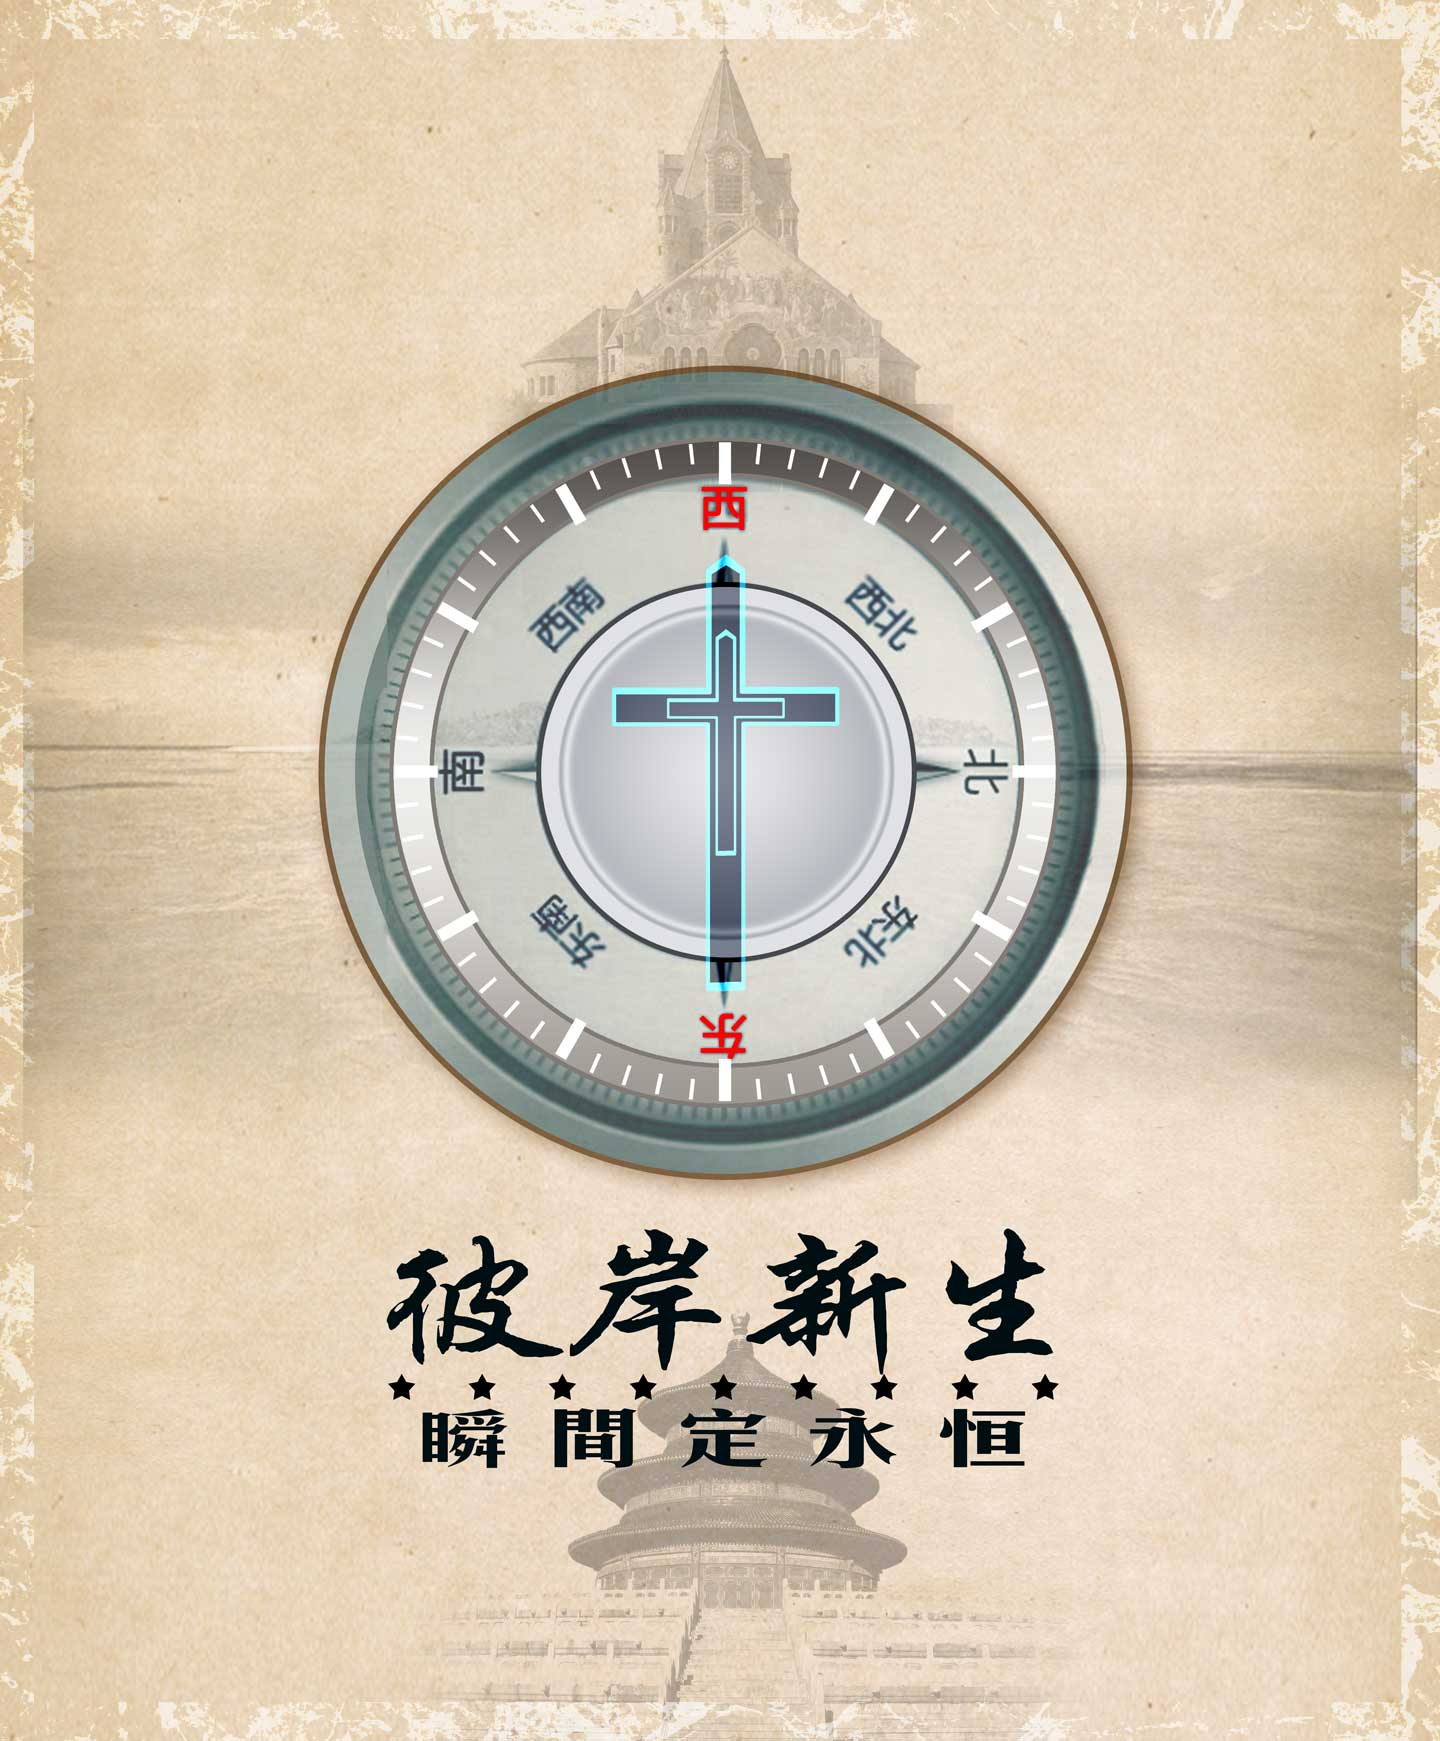
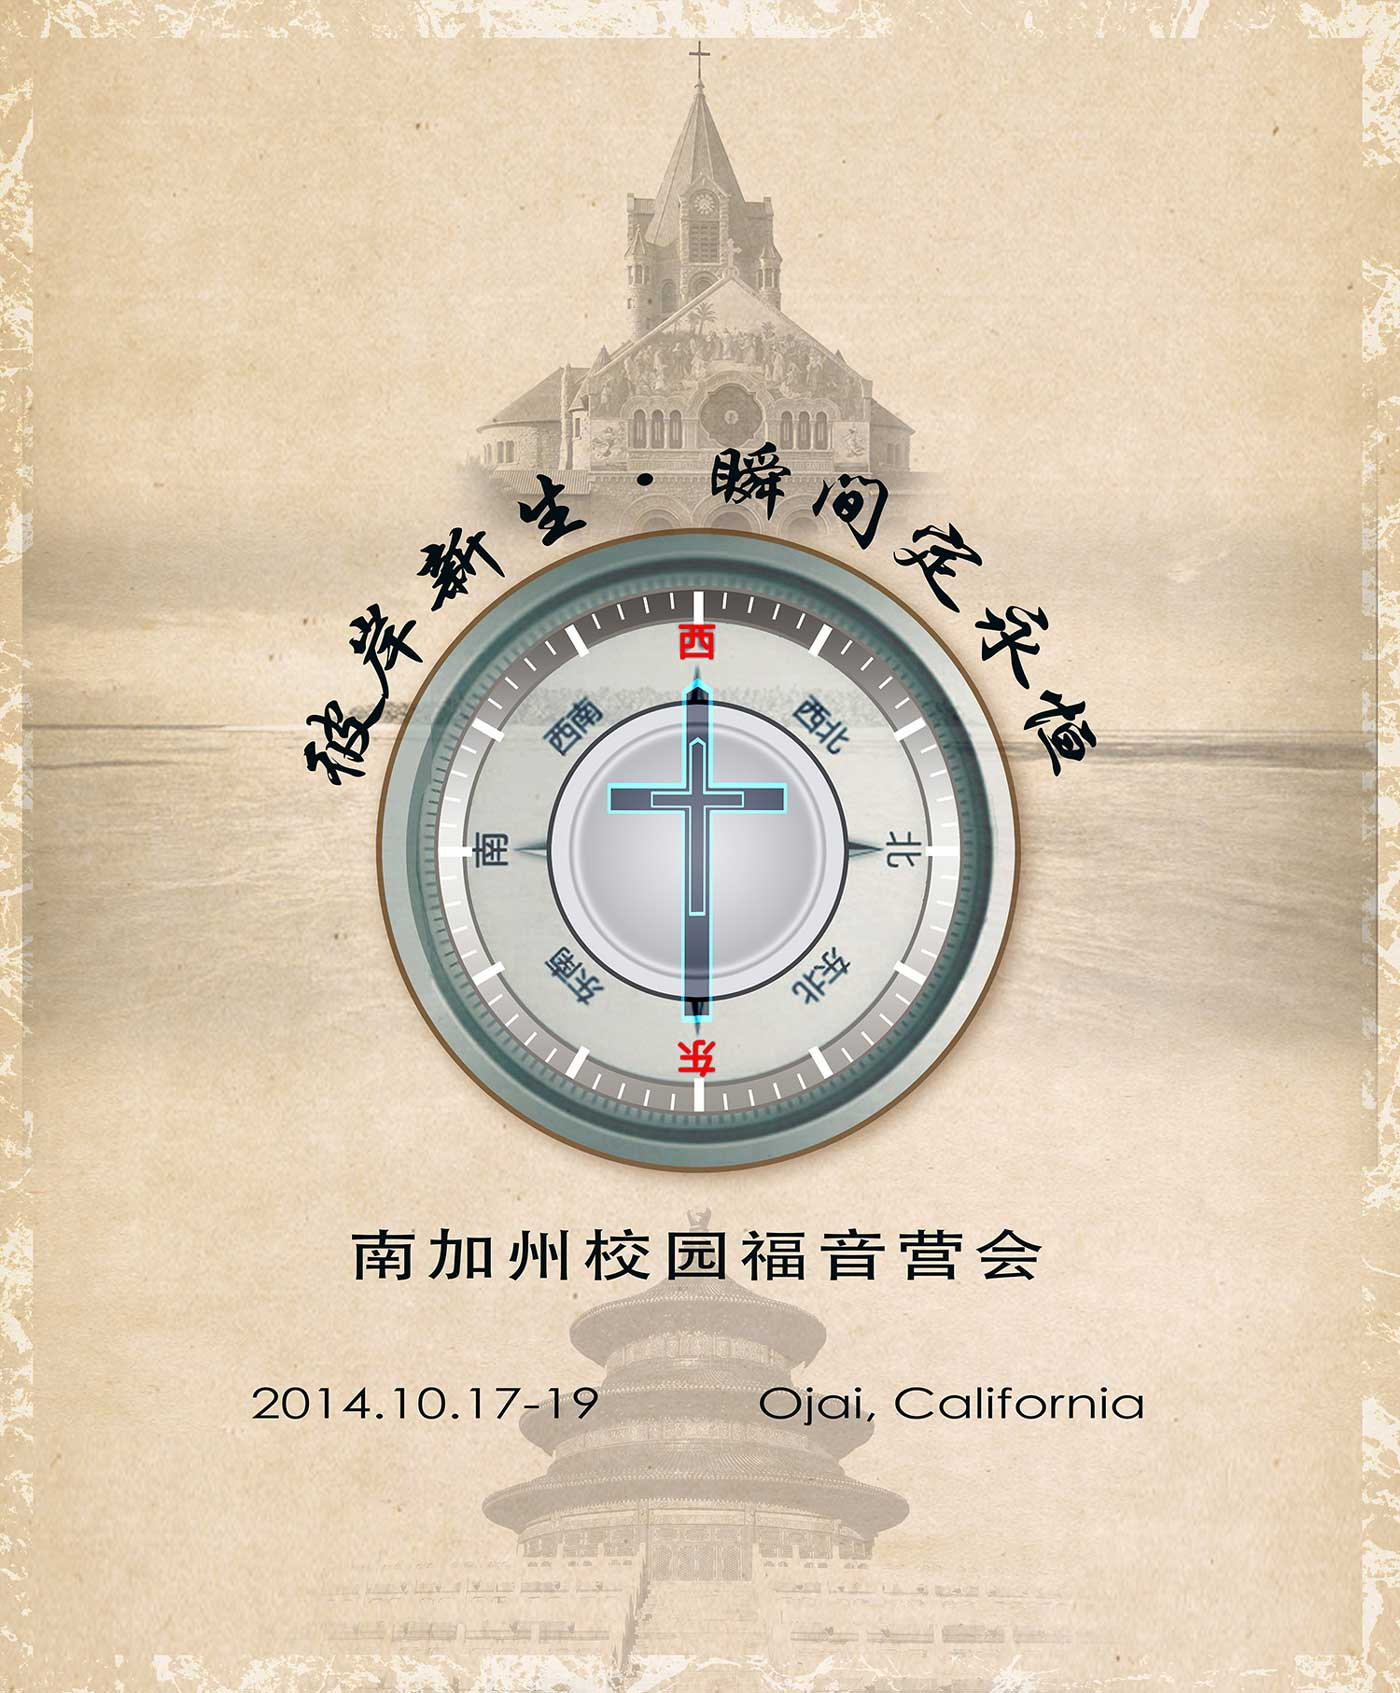
Schedule and change to <img>

Changed region(s): [[0.215, 0.0307, 0.7986, 1.0], [0.1843, 0.7986, 0.215, 0.86], [0.5529, 0.9829, 0.5836, 1.0]]

diff --git a/index.html b/index.html
@@ -12,84 +12,159 @@
 </head>
 <body>
 
-    <div class="container">
-      <div class="header">
-        <ul class="nav nav-pills pull-right">
-<!--           <li class="active"><a href="#">首页</a></li>
-          <li><a href="schedule.html">日程</a></li>
-          <li><a href="speakers.html">讲员</a></li> -->
-          <li><a href="#reg">现在报名 $120</a></li>
-        </ul>
-        <h3 class="text-muted">第二届南加州校园福音营会</h3>
-      </div>
+	<div class="container">
+		<div class="header">
+			<ul class="nav nav-pills pull-right">
+				<li><a href="#reg">现在报名 $120</a></li>
+			</ul>
+			<h3 class="text-muted">第二届南加州校园福音营会</h3>
+		</div>
 
-      <div class="jumbotron poster"></div>
+		<img src="img/poster.jpg" class="img" alt="
+		彼岸新生：瞬间定永恒
+		2014 年 10 月 17 - 19 日
 
-      <div class="row marketing">
-        <div class="col-lg-12">
-			
-			<h1>彼岸新生：瞬间定永恒</h1>
-			<p class="lead">2014 年 10 月 17 - 19 日</p>
-			<p class="lead">
-				Camp Ramah in California <br>
-				Max & Pauline Zimmer Conference Center <br>
-				385 Fairview Rd, Ojai, CA 93023
-			</p>
-			<p><a class="btn btn-lg btn-primary" href="#reg" role="button">现在报名 $120</a></p>
+		Camp Ramah in California 
+		Max & Pauline Zimmer Conference Center 
+		385 Fairview Rd, Ojai, CA 93023">
 
-			<h3><span class="glyphicon glyphicon-tree-conifer"></span> 营地—如画般的著名艺术小城Ojai</h3>
-			<p>
-				<a href="http://www.ramah.org/" target="_blank">
-					http://www.ramah.org/ <span class="glyphicon glyphicon-arrow-right"></span>
-				</a>
-			</p>
-			<div class="jumbotron campus01"></div>
-			<div class="jumbotron campus02"></div>
-			
-			<h3><span class="glyphicon glyphicon-th-list"></span> 著名讲员们的讲题</h3>
-			
-			<h4>大会主讲</h4>	
-			<p>Charles Lee 教授：新生命（ 1 & 2 ）</p>
-			<p>齐宏伟博士：为什么是基督教与怎样的基督教？（ 1 & 2 ）</p>
+		<div class="row marketing">
+			<div class="col-lg-12">
 
-			<h4>精彩讲座</h4>
-			<p>Charles Lee 教授：理财智慧：钱的那些事儿</p>
-			<p>钱琨教授：从中国化石看进化论</p>
-			<p>齐宏伟博士：数字时代与情色时代的圣洁生活</p>
-			<p>谈妮主编：爱而不伤—在21世纪谈男女交友</p>
-			<p>陈道德传道：圣经：神话or神的话？</p>
+				<h3><span class="glyphicon glyphicon-tree-conifer"></span> 营地—如画般的著名艺术小城Ojai</h3>
+				<p>
+					<a href="http://www.ramah.org/" target="_blank">
+						http://www.ramah.org/ <span class="glyphicon glyphicon-arrow-right"></span>
+					</a>
+				</p>
+				
+				<img src="img/campus_01.jpg" class="img" alt="Ramah">
+				<img src="img/campus_02.jpg" class="img" alt="Ojai">
 
-			<h4>特别呈献</h4>
-			<p>苏文峰牧师：晨间默想（ 1 & 2 ）</p>
-			<p>苏文星指挥：音乐节目</p>
+				<h3><span class="glyphicon glyphicon-th-list"></span> 著名讲员们的讲题</h3>
 
-			<h3><span class="glyphicon glyphicon-calendar"></span> 大会日程</h3>
+				<h4>大会主讲</h4>	
+				<p>Charles Lee 教授：新生命（ 1 & 2 ）</p>
+				<p>齐宏伟博士：为什么是基督教与怎样的基督教？（ 1 & 2 ）</p>
 
-			<h3><span class="glyphicon glyphicon-user"></span> 联络人</h3>
-			
-			<h4>Santa Barbara</h4>
-			<p>Jone Lin / 805-259-8893 / <a href="mailto:jonelin2003@gmail.com?Subject=Camp%20Registration" target="_blank">jonelin2003@gmail.com</a></p>
+				<h4>精彩讲座</h4>
+				<p>Charles Lee 教授：理财智慧：钱的那些事儿</p>
+				<p>钱琨教授：从中国化石看进化论</p>
+				<p>齐宏伟博士：数字时代与情色时代的圣洁生活</p>
+				<p>谈妮主编：爱而不伤—在21世纪谈男女交友</p>
+				<p>陈道德传道：圣经：神话or神的话？</p>
 
-			<h4>Northridge</h4>
-			<p>陈道德 / 818-826-3995 / <a href="mailto:daodech910@gmail.com?Subject=Camp%20Registration" target="_blank">daodech910@gmail.com</a></p>
+				<h4>特别呈献</h4>
+				<p>苏文峰牧师：晨间默想（ 1 & 2 ）</p>
+				<p>苏文星指挥：音乐节目</p>
 
-			<h4>West LA</h4>
-			<p>文雯 / 805-699-6125 / <a href="mailto:wyfwenwen@gmail.com?Subject=Camp%20Registration" target="_blank">wyfwenwen@gmail.com</a></p>
-			<p>Julie Liao / 646-241-3138 / <a href="mailto:orange.in.china@gmail.com?Subject=Camp%20Registration" target="_blank">orange.in.china@gmail.com</a></p>
-			
-			<h3 id="reg"><span class="glyphicon glyphicon-list-alt"></span> 报名表</h3>
+				<h3><span class="glyphicon glyphicon-calendar"></span> 大会日程</h3>
+				<table class="table table-bordered">
+					<thead>
+						<tr>
+							<th>时间</th>
+							<th>10月17日</th>
+							<th>10月18日</th>
+							<th>10月19日</th>
+						</tr>
+					</thead>
+					<tbody>
+						<tr>
+							<td class="time">07:15 - 08:00</td>	
+							<td rowspan="8"> - </td>
+							<td>晨更灵修<br>苏文峰牧师</td>
+							<td>晨更灵修<br>苏文峰牧师</td>
+						</tr>
+						<tr>
+							<td class="time">08:00 - 09:00</td>
+							<td>早餐</td>
+							<td>早餐</td>	
+						</tr>
+						<tr>
+							<td class="time">09:00 - 09:20</td>
+							<td>诗歌崇拜</td>
+							<td>诗歌崇拜</td>	
+						</tr>
+						<tr>
+							<td class="time">09:20 - 10:30</td>
+							<td>主题信息 2 ：<br>新生命（上）<br>Charles Lee教授</td>
+							<td>主题信息 4 ：<br>新生命（下）<br>Charles Lee教授</td>
+						</tr>
+						<tr>
+							<td class="time">10:45 - 11:30</td>
+							<td rowspan="2">专题讲座</td>
+							<td>问题解答</td>
+						</tr>
+						<tr>
+							<td class="time">11:30 - 12:00</td>
+							<td>致谢及祝福</td>
+						</tr>
+						<tr>
+							<td class="time">12:15 - 13:00</td>
+							<td>午饭</td>
+							<td>发午餐<br>离营</td>
+						</tr>
+						<tr>
+							<td class="time">13:00 - 16:00</td>
+							<td rowspan="2">自由活动</td>
+							<td rowspan="7"> - </td>
+						</tr>
+						<tr>
+							<td class="time">16:00 - 18:00</td>
+							<td>注册</td>
+						</tr>
+						<tr>
+							<td class="time">18:00 - 19:00</td>
+							<td>晚餐</td>
+							<td>晚餐</td>	
+						</tr>
+						<tr>
+							<td class="time">19:30 - 19:50</td>
+							<td>诗歌</td>
+							<td>诗歌</td>
+						</tr>
+						<tr>
+							<td class="time">19:50 - 20:10</td>
+							<td>开幕音乐礼拜</td>
+							<td rowspan="2">主题信息 3 ：<br>什么样的基督教？<br>齐宏伟博士</td>
+						</tr>
+						<tr>
+							<td class="time">20:10 - 21:10</td>
+							<td>主题信息 1 ：<br>为什么是基督教？<br>齐宏伟博士</td>
+						</tr>
+						<tr>
+							<td class="time">21:15 - 22:15</td>
+							<td>分组讨论</td>
+							<td>分组讨论</td>
+						</tr>
+					</tbody>
+				</table>
 
-			<h3><span class="glyphicon glyphicon-home"></span> 联合主办单位</h3>
-			<p>承办：UC Santa Barbara 华人基督徒团契（隶属华人播道会）</p>
-			<p>合办：海外校园，北区国语浸信会，科洛纳音乐学校</p>
-        </div>
-      </div>
+				<h3><span class="glyphicon glyphicon-user"></span> 联络人</h3>
 
-      <div class="footer">
-        <p><a href="http://www.ucsbccf.org/" target="_blank">UCSB 华人基督徒团契 UCSB Chinese Christian Fellowship</a></p>
-      </div>
+				<h4>Santa Barbara</h4>
+				<p>Jone Lin / 805-259-8893 / <a href="mailto:jonelin2003@gmail.com?Subject=Camp%20Registration" target="_blank">jonelin2003@gmail.com</a></p>
 
-    </div> <!-- /container -->
+				<h4>Northridge</h4>
+				<p>陈道德 / 818-826-3995 / <a href="mailto:daodech910@gmail.com?Subject=Camp%20Registration" target="_blank">daodech910@gmail.com</a></p>
+
+				<h4>West LA</h4>
+				<p>文雯 / 805-699-6125 / <a href="mailto:wyfwenwen@gmail.com?Subject=Camp%20Registration" target="_blank">wyfwenwen@gmail.com</a></p>
+				<p>Julie Liao / 646-241-3138 / <a href="mailto:orange.in.china@gmail.com?Subject=Camp%20Registration" target="_blank">orange.in.china@gmail.com</a></p>
+
+				<h3 id="reg"><span class="glyphicon glyphicon-list-alt"></span> 报名表</h3>
+
+				<h3><span class="glyphicon glyphicon-home"></span> 联合主办单位</h3>
+				<p>承办：UC Santa Barbara 华人基督徒团契（隶属华人播道会）</p>
+				<p>合办：海外校园，北区国语浸信会，科洛纳音乐学校</p>
+			</div>
+		</div>
+
+		<div class="footer">
+			<p><a href="http://www.ucsbccf.org/" target="_blank">UCSB 华人基督徒团契 UCSB Chinese Christian Fellowship</a></p>
+		</div>
+
+	</div> <!-- /container -->
 
 	<!-- Javascript -->
 	<script src="https://ajax.googleapis.com/ajax/libs/jquery/1.11.1/jquery.min.js"></script>

diff --git a/stylesheets/site.css b/stylesheets/site.css
@@ -24,57 +24,34 @@ h4 {
 }
 
 /* line 24, ../sass/site.sass */
-.jumbotron {
-  background-size: cover;
-  background-position: center center;
-}
-
-/* line 28, ../sass/site.sass */
-.jumbotron.poster {
-  height: 870px;
-  background-image: url("../img/poster.jpg");
-}
-
-/* line 32, ../sass/site.sass */
-.jumbotron.campus01,
-.jumbotron.campus02 {
-  height: 180px;
-  border-radius: 0;
-}
-
-/* line 37, ../sass/site.sass */
-.jumbotron.campus01 {
-  background-image: url("../img/campus_01.jpg");
-}
-
-/* line 40, ../sass/site.sass */
-.jumbotron.campus02 {
-  background-image: url("../img/campus_02.jpg");
-}
-
-/* line 43, ../sass/site.sass */
-.jumbotron h1 {
-  font-size: 40px;
-}
-
-/* line 46, ../sass/site.sass */
 a {
   color: #000e13;
 }
-/* line 48, ../sass/site.sass */
+/* line 26, ../sass/site.sass */
 a:hover {
   color: #4d4740;
   text-decoration: none;
 }
 
-/* line 52, ../sass/site.sass */
+/* line 30, ../sass/site.sass */
 .nav-pills > li > a {
   color: #ecd7b8;
   background: #000e13;
 }
 
-/* line 56, ../sass/site.sass */
+/* line 34, ../sass/site.sass */
 .nav > li > a:hover,
 .nav > li > a:focus {
   background: #4d4740;
+}
+
+/* line 38, ../sass/site.sass */
+.time {
+  white-space: nowrap;
+}
+
+/* line 41, ../sass/site.sass */
+.img {
+  width: 100%;
+  margin: 15px 0;
 }
